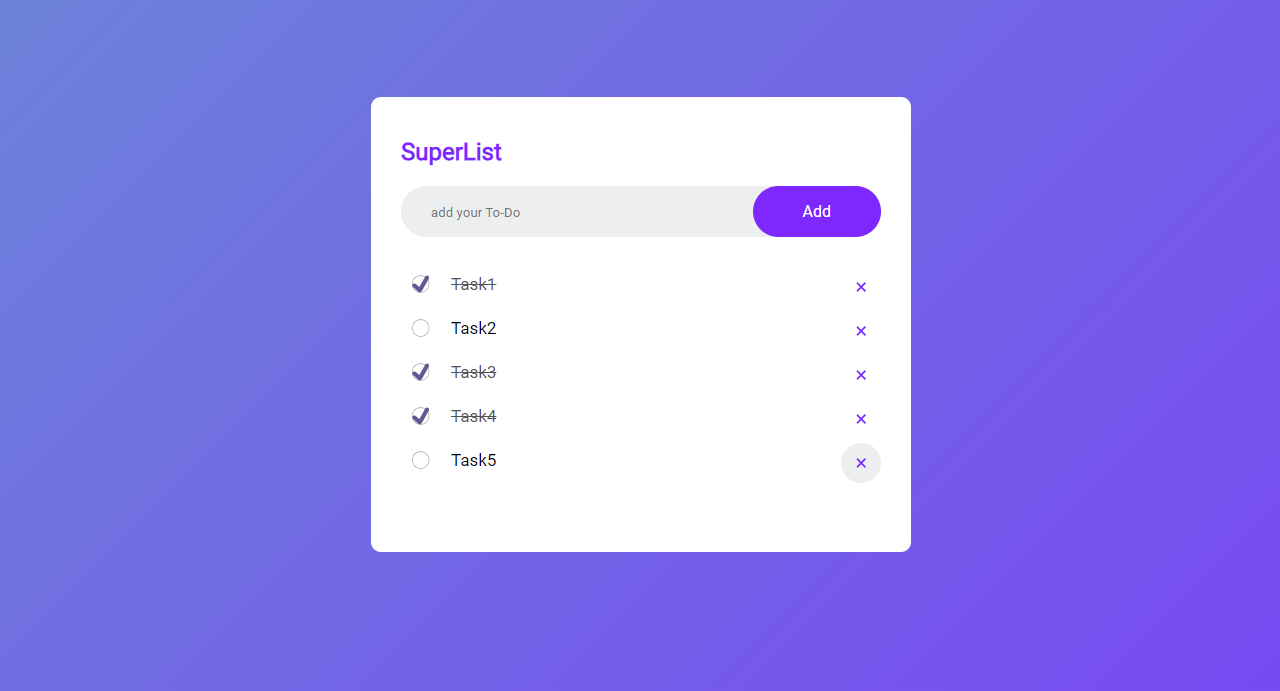
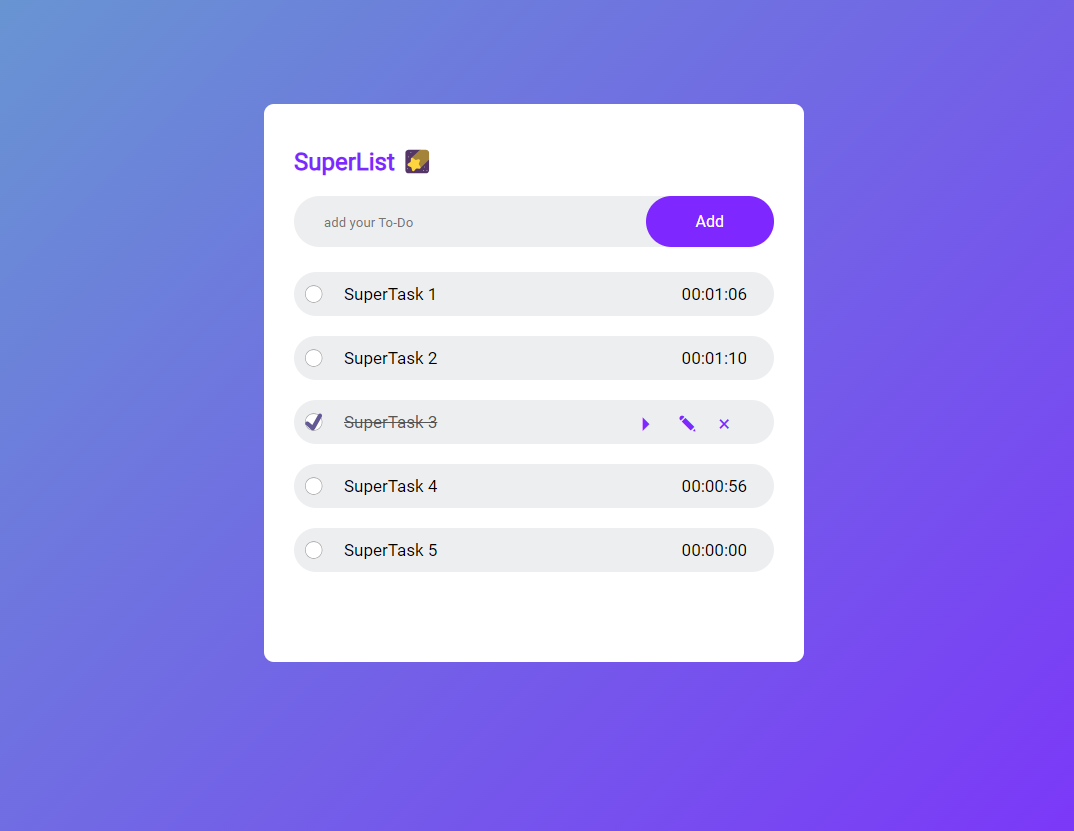
Fix css, saving of status and refresh image

Changed region(s): [[0.2458, 0.1216, 0.7682, 0.8205], [0.6145, 0.4863, 0.6453, 0.5166]]

diff --git a/assets/css/style.css b/assets/css/style.css
@@ -82,42 +82,8 @@ button#sl-add-button {
 	cursor: pointer;
 	border-radius: 40px;
 }
-/*
-#sl-tasks li {
-	display: block;
-	list-style: none;
-	font-size: 17px;
-	padding: 12px 8px 12px 50px;
-	user-select: none;
-	cursor: pointer;
-	position: relative;
-
-	border:1px solid red;
-}
-
-#sl-tasks li:before {
-	content: '⚪';
-	position: absolute;
-	top: 10px;
-	left: 8px;
-}
-
-#sl-tasks li.checked {
-	color: #555;
-	text-decoration: line-through;
-}
-
-#sl-tasks li.checked:after {
-	content: '✔';
-	position: absolute;
-	top: 10px;
-	left: 8px;
-}
-*/
 
 #sl-tasks {
-
-	
 }
 
 .sl-task {
@@ -143,13 +109,17 @@ button#sl-add-button {
 	text-decoration: line-through;
 }
 
-.sl-task .checked:after {
+.checked:after {
 	content: '✔';
 	position: absolute;
 	top: 10px;
 	left: 8px;
 }
 
+.checked .sl-task-title {
+	color: #555;
+	text-decoration: line-through;
+}
 
 .sl-task-content {
 	display:block;
@@ -198,23 +168,3 @@ button#sl-add-button {
 	background: #fff;
 	cursor: pointer;
 }
-
-
-
-/*
-#sl-list li span {
-	position: absolute;
-	right: 0;
-	top: 5px;
-	width: 40px;
-	height: 40px;
-	line-height: 40px;
-	font-size: 22px;
-	color: #7F27FF;
-	text-align: center;
-	border-radius: 50%;
-}
-#sl-list li span:hover {
-	background: #edeef0;
-}
-*/

diff --git a/assets/js/superlist.js b/assets/js/superlist.js
@@ -71,7 +71,7 @@ export default class SuperList {
 	}
 	addTask( task ){
 		const item = document.createElement( 'div' );
-			item.className = 'sl-task';
+			item.className = ( task.done ) ? 'sl-task checked' : 'sl-task';
 			item.id = `task-${task.id}`;
 		const content = document.createElement( 'div' );
 			content.className = 'sl-task-content';
@@ -104,9 +104,11 @@ export default class SuperList {
 			const target = event.target;
 			const tag = String( target.tagName ).toLowerCase();
 			const name = target.className;
-			console.log( 'item::event::click', tag, name );
+			console.log( 'item::event::click', tag, name, task.id );
 			if( tag === 'div' && name.includes( 'sl-task' ) ){
+				task.done = ( task.done ) ? false : true;
 				target.classList.toggle( 'checked' );
+				this.save();
 			}
 			if( tag === 'span' && name.includes( 'sl-task-control-timer' ) ){
 				if( task.interval === null ){

diff --git a/assets/js/utils.js b/assets/js/utils.js
@@ -28,6 +28,7 @@ export class Task {
 		this.title = title;
 		this.seconds = seconds;
 		this.interval = null;
+		this.done = false;
 	}
 }
 
